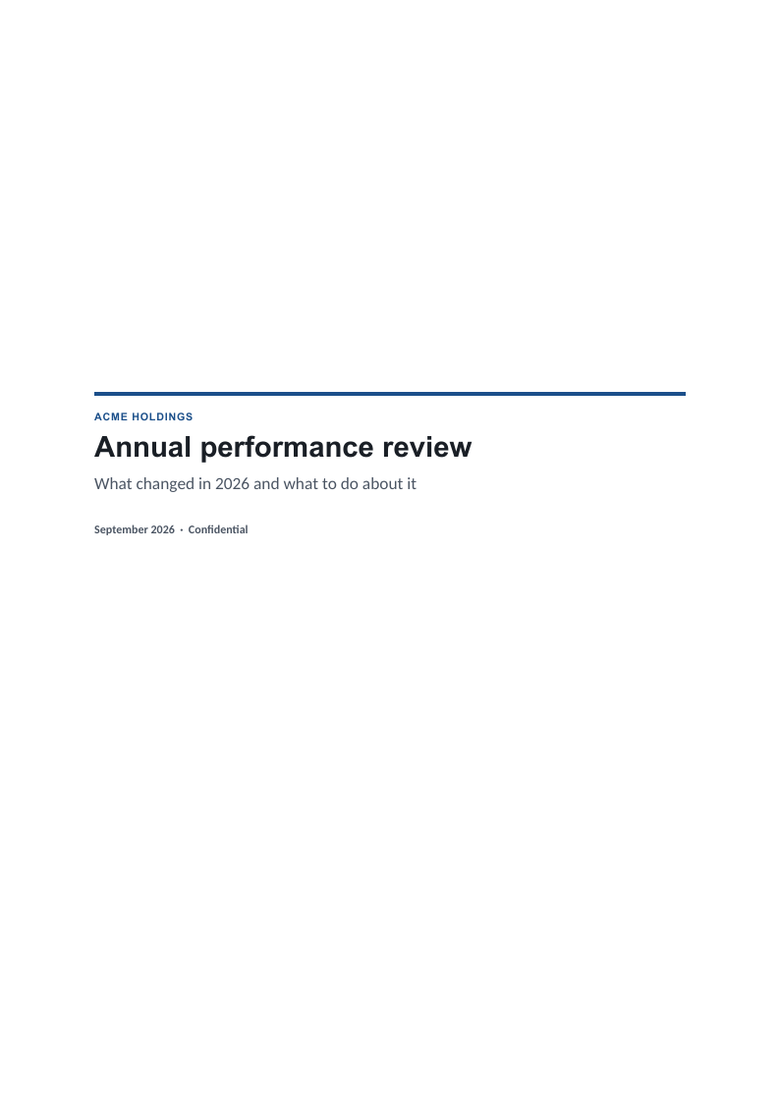
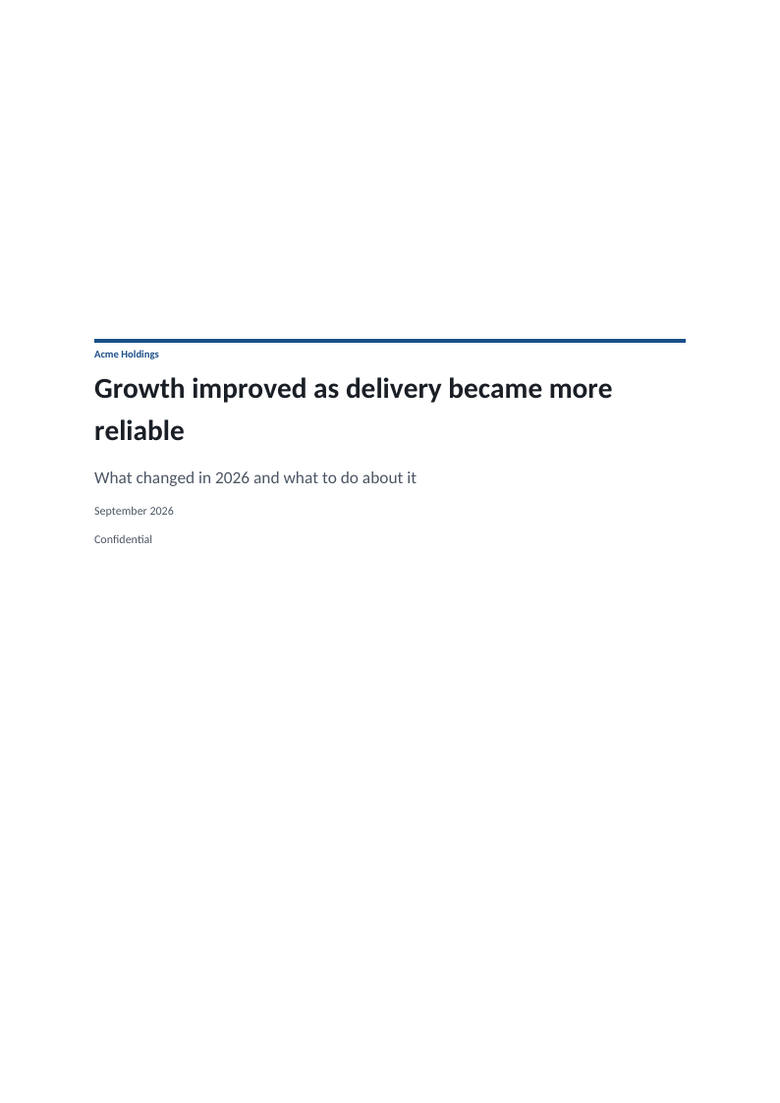
test(docx): prove the report chrome blocks on every theme, with rendered previews
cover, section-opener and running-head already live as JSON definitions in
the client-report-blocks template; this adds the acceptance evidence #335
asks for. report-chrome.test.ts: every chrome slot is bounded and a violation
is a coded issue at the slot; a cover and three openers under one running
head generate warning-clean on all four bundled themes, each section's
header carrying its own tracker and its footer the PAGE / NUMPAGES fields;
and, where LibreOffice and pdftotext exist, the same report is rendered and
the tracker, title, confidentiality, date and n / N are read off every page
after the cover, none of them on the cover.

The LibreOffice discovery moves into a shared test helper the smoke test
uses too. The three chrome previews in the docs were rendered by the
TypeScript compositions #371 shipped and referenced nowhere since #370;
regenerated from the JSON definitions and embedded in the blocks reference
beside the data and figure blocks. Closes #335; #319.

Changed region(s): [[0.1231, 0.3083, 0.8615, 0.4932]]

diff --git a/packages/core-docx/src/blocks/__tests__/report-chrome.test.ts b/packages/core-docx/src/blocks/__tests__/report-chrome.test.ts
@@ -1,0 +1,243 @@
+/**
+ * The report's architecture — `cover`, `section-opener` and `running-head`
+ * from the playground template — proven end to end: bounded slots reported as
+ * coded issues, a cover and three openers under one running head generated
+ * warning-clean on every bundled theme with the tracker following each
+ * opener, and the same report rendered through LibreOffice so the tracker
+ * and the `n / N` field are read off every page rather than out of the XML.
+ *
+ * The rendered part skips itself when LibreOffice is not on PATH;
+ * `JTO_REQUIRE_LIBREOFFICE=1` turns that into a failure.
+ */
+import { describe, it, expect } from 'vitest';
+import AdmZip from 'adm-zip';
+import { execFile } from 'node:child_process';
+import { mkdtemp, readFile, rm, writeFile } from 'node:fs/promises';
+import { tmpdir } from 'node:os';
+import { join } from 'node:path';
+import { promisify } from 'node:util';
+import { validateDocument } from '@json-to-office/shared-docx';
+import { generateBufferWithWarnings } from '../../core/generator';
+import { analyzeDocxQuality } from '../../quality/preflight';
+import { expandBlocks } from '../index';
+import { consultingTheme } from '../../styles';
+import { block, example, on, para, section } from './example';
+import {
+  findLibreOffice,
+  hasPdftotext,
+  requireIfInsisted,
+} from '../../__tests__/libreoffice';
+
+const run = promisify(execFile);
+
+const THEMES = ['consulting', 'minimal', 'vermilion', 'devportal'] as const;
+type Theme = (typeof THEMES)[number];
+
+// Trackers that occur nowhere in the openers or the body, so a rendered page
+// that shows one can only have taken it from its header.
+const TRACKERS = ['Year in brief', 'Regional picture', 'Twelve months on'];
+
+/** A cover in its own section, then three sections under one running head. */
+const report = (theme: Theme) => {
+  const doc = example();
+  doc.props.theme = theme;
+  doc.props.metadata = { title: 'Annual review', author: 'JTO' };
+  doc.children = [
+    section(
+      block('cover', {
+        title: 'Growth improved as delivery became more reliable',
+        subtitle: 'Annual performance review',
+        client: 'Acme Holdings',
+        date: 'September 2026',
+        confidentiality: 'Confidential',
+      })
+    ),
+    section(
+      block('running-head', {
+        confidentiality: 'Confidential',
+        date: 'September 2026',
+      }),
+      block('section-opener', {
+        number: '01',
+        title: 'The year in one page',
+        tracker: TRACKERS[0],
+      }),
+      para('Summary body.')
+    ),
+    section(
+      block('section-opener', {
+        number: '02',
+        title: 'Results by region',
+        tracker: TRACKERS[1],
+      }),
+      para('Results body.')
+    ),
+    section(
+      block('section-opener', {
+        number: '03',
+        title: 'What to do next year',
+        tracker: TRACKERS[2],
+      }),
+      para('Outlook body.')
+    ),
+  ];
+  return doc;
+};
+
+const text = (xml: string) =>
+  xml
+    .replace(/<w:tab\/>/g, '\t')
+    .replace(/<[^>]+>/g, '')
+    .trim();
+
+/** The header and footer text of each section, in document order. */
+const chrome = (buffer: Buffer) => {
+  const zip = new AdmZip(buffer);
+  const main = zip.readAsText('word/document.xml');
+  const rels = zip.readAsText('word/_rels/document.xml.rels');
+  const target = (id: string) =>
+    rels.match(new RegExp(`Id="${id}"[^>]*Target="([^"]+)"`))?.[1] ??
+    rels.match(new RegExp(`Target="([^"]+)"[^>]*Id="${id}"`))?.[1];
+  const part = (kind: 'header' | 'footer', sectPr: string) => {
+    const id = sectPr.match(
+      new RegExp(`<w:${kind}Reference[^>]*w:type="default"[^>]*r:id="([^"]+)"`)
+    )?.[1];
+    return id ? text(zip.readAsText(`word/${target(id)}`)) : undefined;
+  };
+  return [...main.matchAll(/<w:sectPr[\s>][\s\S]*?<\/w:sectPr>/g)].map(
+    ([sectPr]) => ({
+      type: sectPr.match(/<w:type w:val="([^"]+)"/)?.[1],
+      header: part('header', sectPr),
+      footer: part('footer', sectPr),
+    })
+  );
+};
+
+describe('the report architecture blocks', () => {
+  it('bounds every chrome slot and reports a violation as a coded issue at the slot', () => {
+    const doc = on(
+      'consulting',
+      block('cover', {
+        subtitle: 'word '.repeat(31).trim(),
+        logo: 'not a component',
+      }),
+      block('running-head', {
+        pageNumbers: 'yes',
+        tracker: 'one two three four five six seven',
+      }),
+      block('section-opener', { number: 'one two three four' })
+    );
+    const at = (path: string, code: string) =>
+      expect.objectContaining({ code, path });
+    const cover = '/children/0/children/0/props/slots';
+    const head = '/children/0/children/1/props/slots';
+    const opener = '/children/0/children/2/props/slots';
+    expect(validateDocument(doc).errors).toEqual(
+      expect.arrayContaining([
+        at(`${cover}/title`, 'block_required_slot'),
+        at(`${cover}/subtitle`, 'block_slot_budget'),
+        at(`${cover}/logo`, 'block_slot_type'),
+        at(`${head}/pageNumbers`, 'block_slot_type'),
+        at(`${head}/tracker`, 'block_slot_budget'),
+        at(`${opener}/title`, 'block_required_slot'),
+        at(`${opener}/number`, 'block_slot_budget'),
+      ])
+    );
+  });
+
+  it('lets an opener without a tracker fall back to its title', () => {
+    const doc = report('consulting');
+    delete doc.children[2].children[0].props.slots.tracker;
+    const expanded = expandBlocks(doc, consultingTheme);
+    expect(expanded.document.children[2].props.header[0].props.text).toBe(
+      'Annual review\tResults by region'
+    );
+  });
+
+  describe.each(THEMES)('on the %s theme', (theme) => {
+    it('generates a cover and three openers under one running head, warning-clean, the tracker following each opener', async () => {
+      const doc = report(theme);
+      expect(validateDocument(doc).errors).toEqual([]);
+      const { buffer, warnings } = await generateBufferWithWarnings(doc);
+      expect(warnings).toEqual([]);
+      expect(
+        analyzeDocxQuality(doc).diagnostics.filter(
+          (finding) => finding.severity !== 'info'
+        )
+      ).toEqual([]);
+      const sections = chrome(buffer as Buffer);
+      expect(sections).toHaveLength(4);
+      expect(sections[0]).toMatchObject({
+        header: undefined,
+        footer: undefined,
+      });
+      expect(sections.slice(1).map((s) => s.header)).toEqual(
+        TRACKERS.map((tracker) => `Annual review\t${tracker}`)
+      );
+      for (const { footer } of sections.slice(1)) {
+        expect(footer).toMatch(
+          /^Confidential\t.*\bPAGE\b.*\/.*\bNUMPAGES\b.*\tSeptember 2026$/s
+        );
+      }
+      // A header belongs to the page a section starts on, so every section
+      // under the running head starts a new page.
+      expect(sections.slice(1).map((s) => s.type)).toEqual(
+        TRACKERS.map(() => 'nextPage')
+      );
+    });
+  });
+});
+
+const soffice = await findLibreOffice();
+const pdftotext = await hasPdftotext();
+requireIfInsisted(Boolean(soffice), 'a LibreOffice binary on PATH');
+requireIfInsisted(pdftotext, 'pdftotext');
+
+describe.skipIf(!soffice || !pdftotext)('rendered through LibreOffice', () => {
+  it('paints each section’s tracker and n / N on its own page, on every theme, and nothing on the cover', async () => {
+    const dir = await mkdtemp(join(tmpdir(), 'jto-report-chrome-'));
+    try {
+      for (const theme of THEMES) {
+        const { buffer } = await generateBufferWithWarnings(report(theme));
+        await writeFile(join(dir, `${theme}.docx`), buffer);
+      }
+      await run(
+        soffice as string,
+        [
+          `-env:UserInstallation=file://${join(dir, 'profile').replace(/\\/g, '/')}`,
+          '--headless',
+          '--convert-to',
+          'pdf',
+          '--outdir',
+          dir,
+          ...THEMES.map((theme) => join(dir, `${theme}.docx`)),
+        ],
+        { timeout: 240_000 }
+      );
+      for (const theme of THEMES) {
+        const txt = join(dir, `${theme}.txt`);
+        await run('pdftotext', [join(dir, `${theme}.pdf`), txt]);
+        const pages = (await readFile(txt, 'utf8'))
+          .replace(/\f$/, '')
+          .split('\f');
+        expect(pages, theme).toHaveLength(4);
+        const [cover, ...body] = pages;
+        expect(cover, theme).toContain('Growth improved');
+        expect(cover, theme).not.toContain('Annual review');
+        expect(cover, theme).not.toMatch(/\d\s*\/\s*\d/);
+        body.forEach((page, i) => {
+          const label = `${theme} page ${i + 2}`;
+          expect(page, label).toContain('Annual review');
+          expect(page, label).toContain('Confidential');
+          expect(page, label).toContain('September 2026');
+          expect(page, label).toContain(TRACKERS[i]);
+          expect(page, label).toMatch(new RegExp(`\\b${i + 2}\\s*/\\s*4\\b`));
+          for (const other of TRACKERS.filter((t) => t !== TRACKERS[i]))
+            expect(page, label).not.toContain(other);
+        });
+      }
+    } finally {
+      await rm(dir, { recursive: true, force: true });
+    }
+  }, 300_000);
+});

diff --git a/packages/core-docx/src/__tests__/libreoffice.ts b/packages/core-docx/src/__tests__/libreoffice.ts
@@ -1,0 +1,44 @@
+/**
+ * Where the rendering tests find LibreOffice and pdftotext.
+ *
+ * Suites that need them skip themselves when a tool is missing, so no test
+ * run depends on a GUI application being installed; `JTO_REQUIRE_LIBREOFFICE=1`
+ * turns a missing tool into a failure where CI guarantees it.
+ */
+import { execFile } from 'node:child_process';
+import { promisify } from 'node:util';
+
+const run = promisify(execFile);
+
+export async function findLibreOffice(): Promise<string | undefined> {
+  const candidates = [
+    'soffice',
+    '/Applications/LibreOffice.app/Contents/MacOS/soffice',
+    '/usr/bin/soffice',
+    '/usr/bin/libreoffice',
+  ];
+  for (const candidate of candidates) {
+    try {
+      await run(candidate, ['--version'], { timeout: 60_000 });
+      return candidate;
+    } catch {
+      // Try the next candidate.
+    }
+  }
+  return undefined;
+}
+
+export async function hasPdftotext(): Promise<boolean> {
+  try {
+    await run('pdftotext', ['-v'], { timeout: 10_000 });
+    return true;
+  } catch {
+    return false;
+  }
+}
+
+/** Throws when the environment insists on the tools and one is missing. */
+export function requireIfInsisted(found: boolean, what: string): void {
+  if (process.env.JTO_REQUIRE_LIBREOFFICE === '1' && !found)
+    throw new Error(`JTO_REQUIRE_LIBREOFFICE=1 but ${what} was not found.`);
+}

diff --git a/packages/core-docx/src/__tests__/libreoffice-smoke.test.ts b/packages/core-docx/src/__tests__/libreoffice-smoke.test.ts
@@ -20,35 +20,12 @@ import { join } from 'node:path';
 import { promisify } from 'node:util';
 import { generateBufferViaIr } from '../core/generateFromIr';
 import type { DocxRendererId } from '../renderers/types';
+import { findLibreOffice, requireIfInsisted } from './libreoffice';
 
 const run = promisify(execFile);
 
-async function findLibreOffice(): Promise<string | undefined> {
-  const candidates = [
-    'soffice',
-    '/Applications/LibreOffice.app/Contents/MacOS/soffice',
-    '/usr/bin/soffice',
-    '/usr/bin/libreoffice',
-  ];
-  for (const candidate of candidates) {
-    try {
-      await run(candidate, ['--version'], { timeout: 60_000 });
-      return candidate;
-    } catch {
-      // Try the next candidate.
-    }
-  }
-  return undefined;
-}
-
 const soffice = await findLibreOffice();
-const required = process.env.JTO_REQUIRE_LIBREOFFICE === '1';
-
-if (!soffice && required) {
-  throw new Error(
-    'JTO_REQUIRE_LIBREOFFICE=1 but no LibreOffice binary was found on PATH.'
-  );
-}
+requireIfInsisted(Boolean(soffice), 'a LibreOffice binary on PATH');
 
 /** A 4x2 PNG, so image measurement has real pixels to read. */
 const PNG_4X2 =

diff --git a/packages/core-docx/src/blocks/__tests__/example.ts b/packages/core-docx/src/blocks/__tests__/example.ts
@@ -29,3 +29,13 @@ export const on = (theme: string, ...blocks: unknown[]) => {
   doc.children = [{ name: 'section', children: blocks }];
   return doc;
 };
+/** An invocation of `ref` with the given slots. */
+export const block = (ref: string, slots: Record<string, unknown>) => ({
+  name: 'block',
+  props: { ref, slots },
+});
+export const section = (...children: unknown[]) => ({
+  name: 'section',
+  children,
+});
+export const para = (text: string) => ({ name: 'paragraph', props: { text } });

diff --git a/docs/reference/blocks.md b/docs/reference/blocks.md
@@ -126,11 +126,11 @@ The playground demonstrates `cover`, `key-takeaways`, `section-opener`, `running
 
 ### The report blocks
 
-Every definition in `client-report-blocks.docx.json` binds its sizes and colours to the theme's type roles and chrome recipes with a safe default, so the same JSON renders on every bundled theme; the previews below are the house theme, rendered through LibreOffice.
+Every definition in `client-report-blocks.docx.json` binds its sizes and colours to the theme's type roles and chrome recipes with a safe default, so the same JSON renders on every bundled theme; the previews below are the house theme, rendered through LibreOffice. A report built from a cover, three section openers and one running head is generated on all four bundled themes in the test suite, warning-clean, and rendered through LibreOffice where one is installed: every page after the cover carries its own section's tracker and a live `n / N`, and the cover carries neither.
 
 | Block            | Slots                                                                                                     | What the definition decides                                                                                                                                                                                                                                                               |
 | ---------------- | --------------------------------------------------------------------------------------------------------- | ----------------------------------------------------------------------------------------------------------------------------------------------------------------------------------------------------------------------------------------------------------------------------------------- |
-| `cover`          | title, subtitle, client, date, confidentiality, logo                                                      | The cover recipe's rule 30% down the page; the eyebrow, display and label roles                                                                                                                                                                                                           |
+| `cover`          | title, subtitle, client, date, confidentiality, logo                                                      | The cover recipe's rule about a third of the way down the page (22% of the body height, after the logo when there is one); the client in the eyebrow role, the title in display, subtitle, then date and confidentiality in the label role, each absent when its slot is                  |
 | `key-takeaways`  | label, items 3–5 of ≤ 25 words                                                                            | The key-takeaways recipe's rule, label role, hairline                                                                                                                                                                                                                                     |
 | `section-opener` | number, title, tracker                                                                                    | Eyebrow number, a real level-1 heading, the section tracker the running head reads                                                                                                                                                                                                        |
 | `running-head`   | title, tracker, confidentiality, date, pageNumbers                                                        | Header `title · tracker` and footer `confidentiality · n / N · date` in the tracker and footer roles, inherited by later sections                                                                                                                                                         |
@@ -140,6 +140,14 @@ Every definition in `client-report-blocks.docx.json` binds its sizes and colours
 | `chart-figure`   | chart (component: `highcharts`, or `chart` on office-open), caption, takeaway, source (required)          | The chart as given; `**Figure {SEQ:figure}.** caption` in the label role; the takeaway beneath in the quote role; the source through `source-line`. The block's `takeaway` and `source` slots are what `W_QUALITY_CHART_ANNOTATION` reads, so a chart placed here is annotated by them    |
 | `figure`         | image (component: `image` or `visual`), caption, source                                                   | The same numbered caption over the same `figure` sequence, so figures and charts number together; source through `source-line`                                                                                                                                                            |
 | `footnotes`      | title (default "Notes and sources")                                                                       | Nothing unless the document cites a source; otherwise a hairline, the title in the label role and a numbered list of every distinct `source`-role slot value in document order, from the engine's `/sources` context                                                                      |
+
+![cover on consulting](/blocks/cover-consulting.png)
+
+![key-takeaways on consulting](/blocks/key-takeaways-consulting.png)
+
+![section-opener on consulting](/blocks/section-opener-consulting.png)
+
+![running-head on consulting](/blocks/running-head-consulting.png)
 
 ![kpi-row on consulting](/blocks/kpi-row-consulting.png)
 
